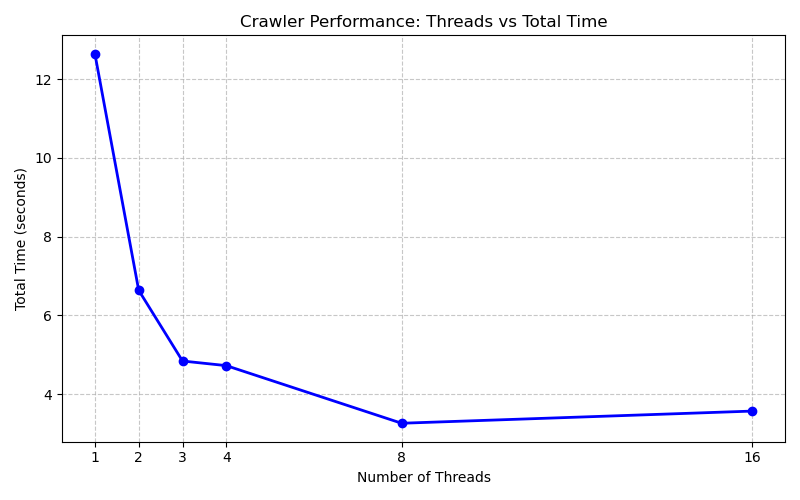
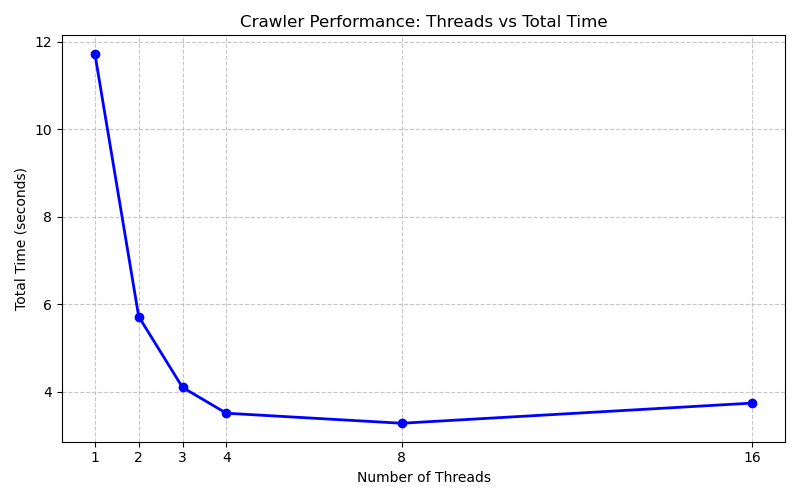
added BFS shortest path tracer

diff --git a/parser_analyzer.cpp b/parser_analyzer.cpp
@@ -3,6 +3,7 @@
 #include <iostream>
 #include <fstream>
 #include <algorithm>
+#include <map>
 
 // ELISA
 
@@ -156,4 +157,38 @@ void Benchmarker::generate_csv(const std::vector<PageData>& all_data, const std:
     }
     file.close();
     std::cout << "Successfully wrote " << all_data.size() << " pages to " << filename << "\n";
+}
+
+void Benchmarker::bfs_path(const std::vector<PageData>& all_data) {
+    if (all_data.empty()) return;
+
+    std::cout << "\n------------------------- BFS Shortest Path -------------------------\n";
+    
+    // map to find the parent of any URL
+    std::map<std::string, std::string> parent_map;
+    for (const auto& page : all_data) {
+        parent_map[page.url] = page.parent;
+    }
+
+    // we pick the last page the crawler discovered to trace backward
+    std::string current_url = all_data.back().url;
+    
+    std::cout << "path from a discovered page back to the seed URL:\n";
+    std::cout << "\n";
+
+    int distance = 0;
+    // we search backwards until we hit the root URL whose parent is "NONE"
+    while (current_url != "NONE" && !current_url.empty()) {
+        std::cout << "  <- " << current_url << "\n";
+        
+        if (parent_map.find(current_url) != parent_map.end()) {
+            current_url = parent_map[current_url];
+            distance++;
+        } else {
+            break;
+        }
+    }
+    
+    std::cout << "\nThis path of " << (distance - 1) << " clicks is the shortest path.\n";
+    std::cout << "\n";
 }

diff --git a/downloader.cpp b/downloader.cpp
@@ -81,7 +81,9 @@ void Downloading_Stats::print_stats() const {
     if (total_downloads > 0) {
         average = total_download_time / total_downloads;
     }
-    std::cout << "Download statistics:" << std::endl;
+    std::cout << "\n";
+    std::cout << "--------------------Download statistics--------------------" << std::endl;
+    std::cout << "\n";
     std::cout << "Total download attempts: " << total_downloads << std::endl;
     std::cout << "Successful downloads: " << successful_downloads << std::endl;
     std::cout << "Failed downloads: " << failed_downloads << std::endl;

diff --git a/main.cpp b/main.cpp
@@ -131,6 +131,8 @@ int main(int argc, char* argv[]) {
 
     Benchmarker::generate_csv(final_data, "crawler_results.csv");
 
+    Benchmarker::bfs_path(final_data);
+
     std::cout << "Total pages found: " << final_data.size() << std::endl;
     std::cout << "Total time: " << total_seconds << " seconds" << std::endl;
     std::cout << "Pages per second: "

diff --git a/parser_analyzer.hpp b/parser_analyzer.hpp
@@ -23,6 +23,7 @@ class Benchmarker {
 public:
     static void generate_csv(const std::vector<PageData>& all_data, const std::string& filename);
     // run_benchmark removed: i implemented benchmarking.cpp file to match the implementation from the main 
+    static void bfs_path(const std::vector<PageData>& all_data);
 };
 
 #endif

diff --git a/benchmarking.cpp b/benchmarking.cpp
@@ -8,6 +8,7 @@
 #include <stdexcept>
 #include <fstream> 
 
+
 // ELISA
 
 // execute a shell command and returns the console output as a string
